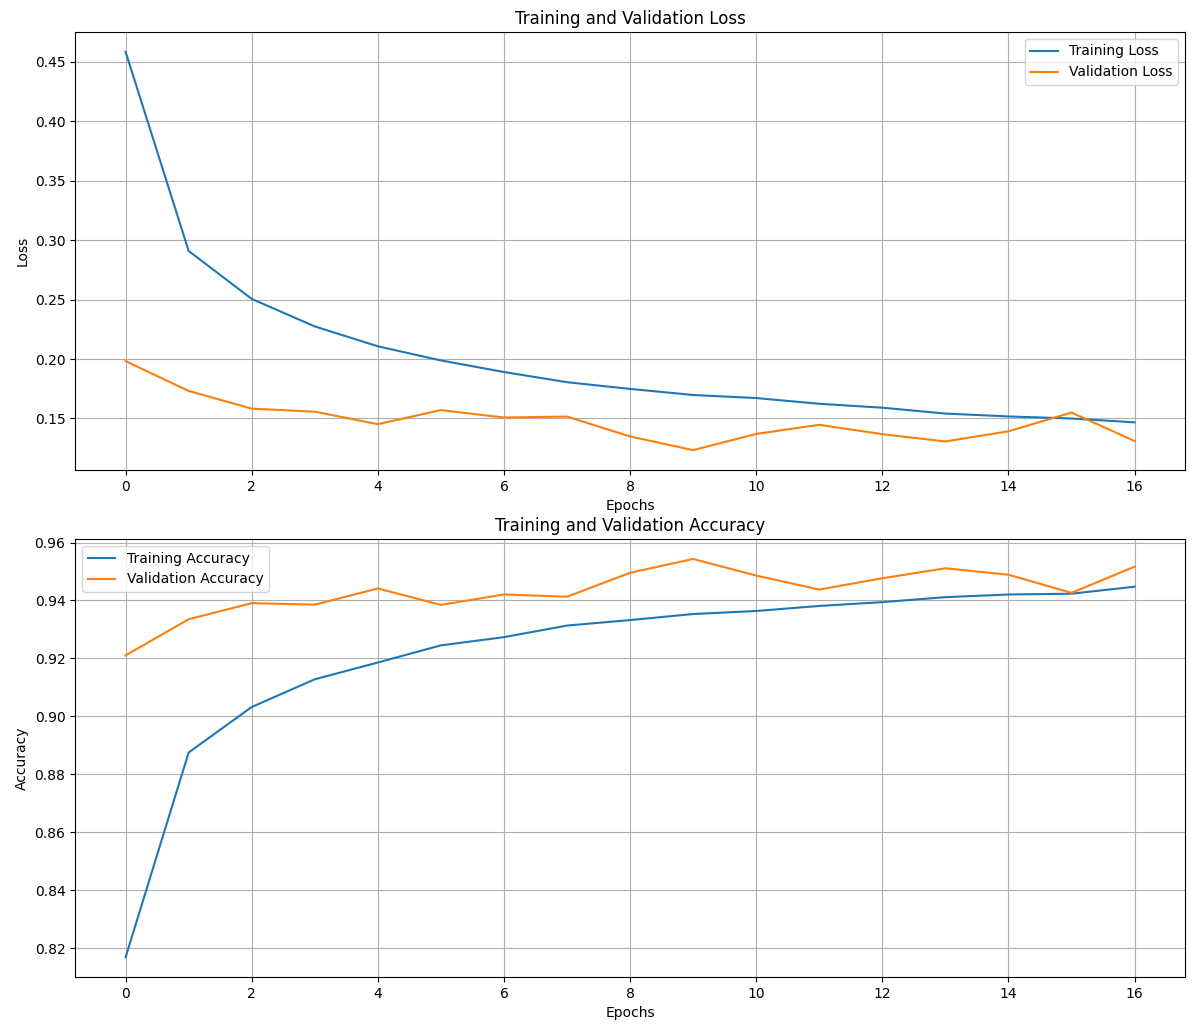
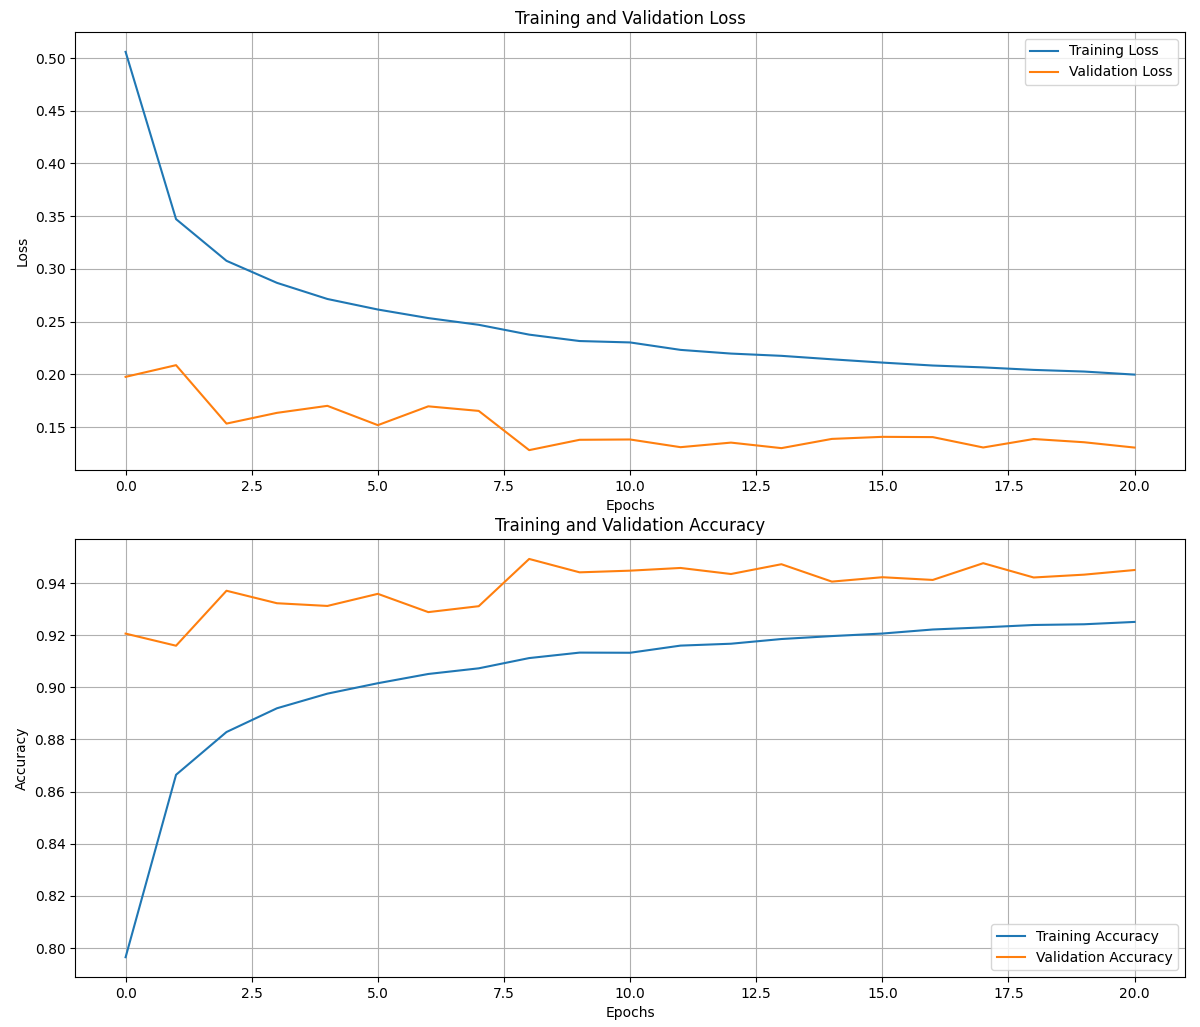
fix bugs

diff --git a/Training_Data/5_random.py b/Training_Data/5_random.py
@@ -10,6 +10,8 @@ from sklearn.utils.class_weight import compute_class_weight
 from sklearn.utils import shuffle
 from preprocess_dataset import fix_dataset, load_telemetry_data
 from custom_early_stop import CustomEarlyStopping
+from keras.layers import BatchNormalization
+
 import seaborn as sns
 import matplotlib.pyplot as plt
 import joblib
@@ -32,7 +34,7 @@ os.environ["VECLIB_MAXIMUM_THREADS"] = "0"
 os.environ["NUMEXPR_NUM_THREADS"] = "0"
 
 # === Configurazione iniziale ===
-split_by_circuit = False  # Non usiamo split per circuito
+split_by_circuit = True  # Non usiamo split per circuito
 random_state = 42  # Per riproducibilità
 
 # === Caricamento e preprocessing ===
@@ -114,12 +116,25 @@ X_train, y_train = shuffle(X_train, y_train, random_state=random_state)
 
 # === Modello ===
 model = Sequential([
-    Dense(128, activation='relu', input_shape=(X_train.shape[1],)),
-    Dropout(0.2),
+    Dense(256, activation='relu', input_shape=(X_train.shape[1],)),
+    BatchNormalization(),
+    Dropout(0.3),
+    
+    Dense(128, activation='relu'),
+    BatchNormalization(),
+    Dropout(0.3),
+    
     Dense(64, activation='relu'),
+    BatchNormalization(),
+    Dropout(0.2),
+    
     Dense(32, activation='relu'),
-    Dense(4, activation='softmax')
+    BatchNormalization(),
+    Dropout(0.2),
+    
+    Dense(4, activation='softmax')  # Numero di classi
 ])
+
 
 model.compile(
     optimizer='adam',
@@ -139,7 +154,7 @@ custom_early_stopping = CustomEarlyStopping(validation_data=(X_val, y_val), pati
 history = model.fit(
     X_train, y_train,
     validation_data=(X_val, y_val),
-    epochs=50,
+    epochs=100,
     batch_size=64,
     callbacks=[custom_early_stopping],
     class_weight=class_weights_dict,

diff --git a/NoteTesiScritta/0_NoteModelloRandom.md b/NoteTesiScritta/0_NoteModelloRandom.md
@@ -10,12 +10,10 @@ precision for label 'weighted avg': 0.96
 
 
 Sì divisione circuito con data augmentation
-Overall Test accuracy su Mugello: 0.94
-Matrice confusione sulla grip loss 0.63
-
-Precisione per la classe 'grip_loss': 0.74
-Precisione per la classe 'high_grip_accelerate': 0.89
-Precisione per la classe 'low_grip_accelerate': 0.81
-Precisione per la classe 'neutral': 0.99
-Precisione per la classe 'macro avg': 0.86
-Precisione per la classe 'weighted avg': 0.94
+Overall Test accuracy: 0.95
+precision for label 'grip_loss': 0.79
+precision for label 'high_grip_accelerate': 0.92
+precision for label 'low_grip_accelerate': 0.77
+precision for label 'neutral': 1.00
+precision for label 'macro avg': 0.87
+precision for label 'weighted avg': 0.95